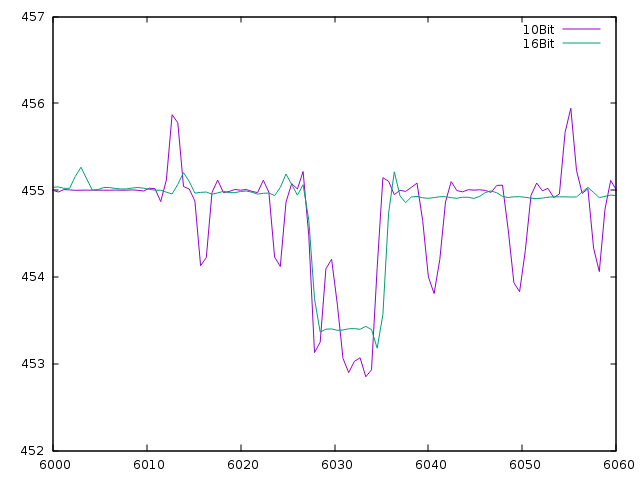
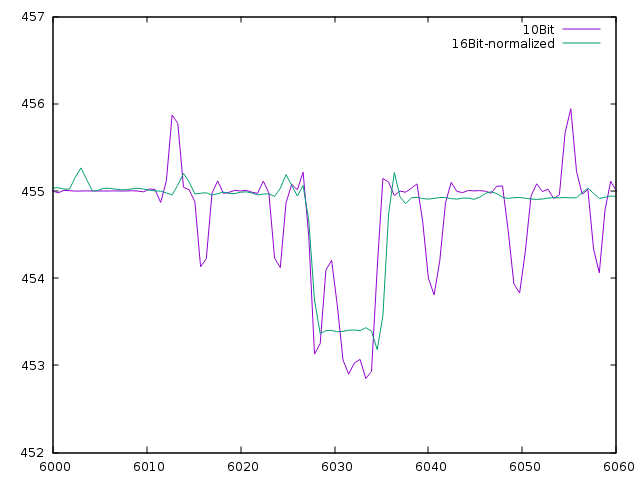
Updated images

diff --git a/README.md b/README.md
@@ -63,7 +63,7 @@ The result is now **scaled by shifting** it to the right by **n** bits, since we
 
     0011
 
-The value is now divided by **2^n** to get the proportional value of the decimated value:
+The value is now divided by **2^n** to get the normalized value of the decimated value:
 
      3/2^1 = 1.5
 
